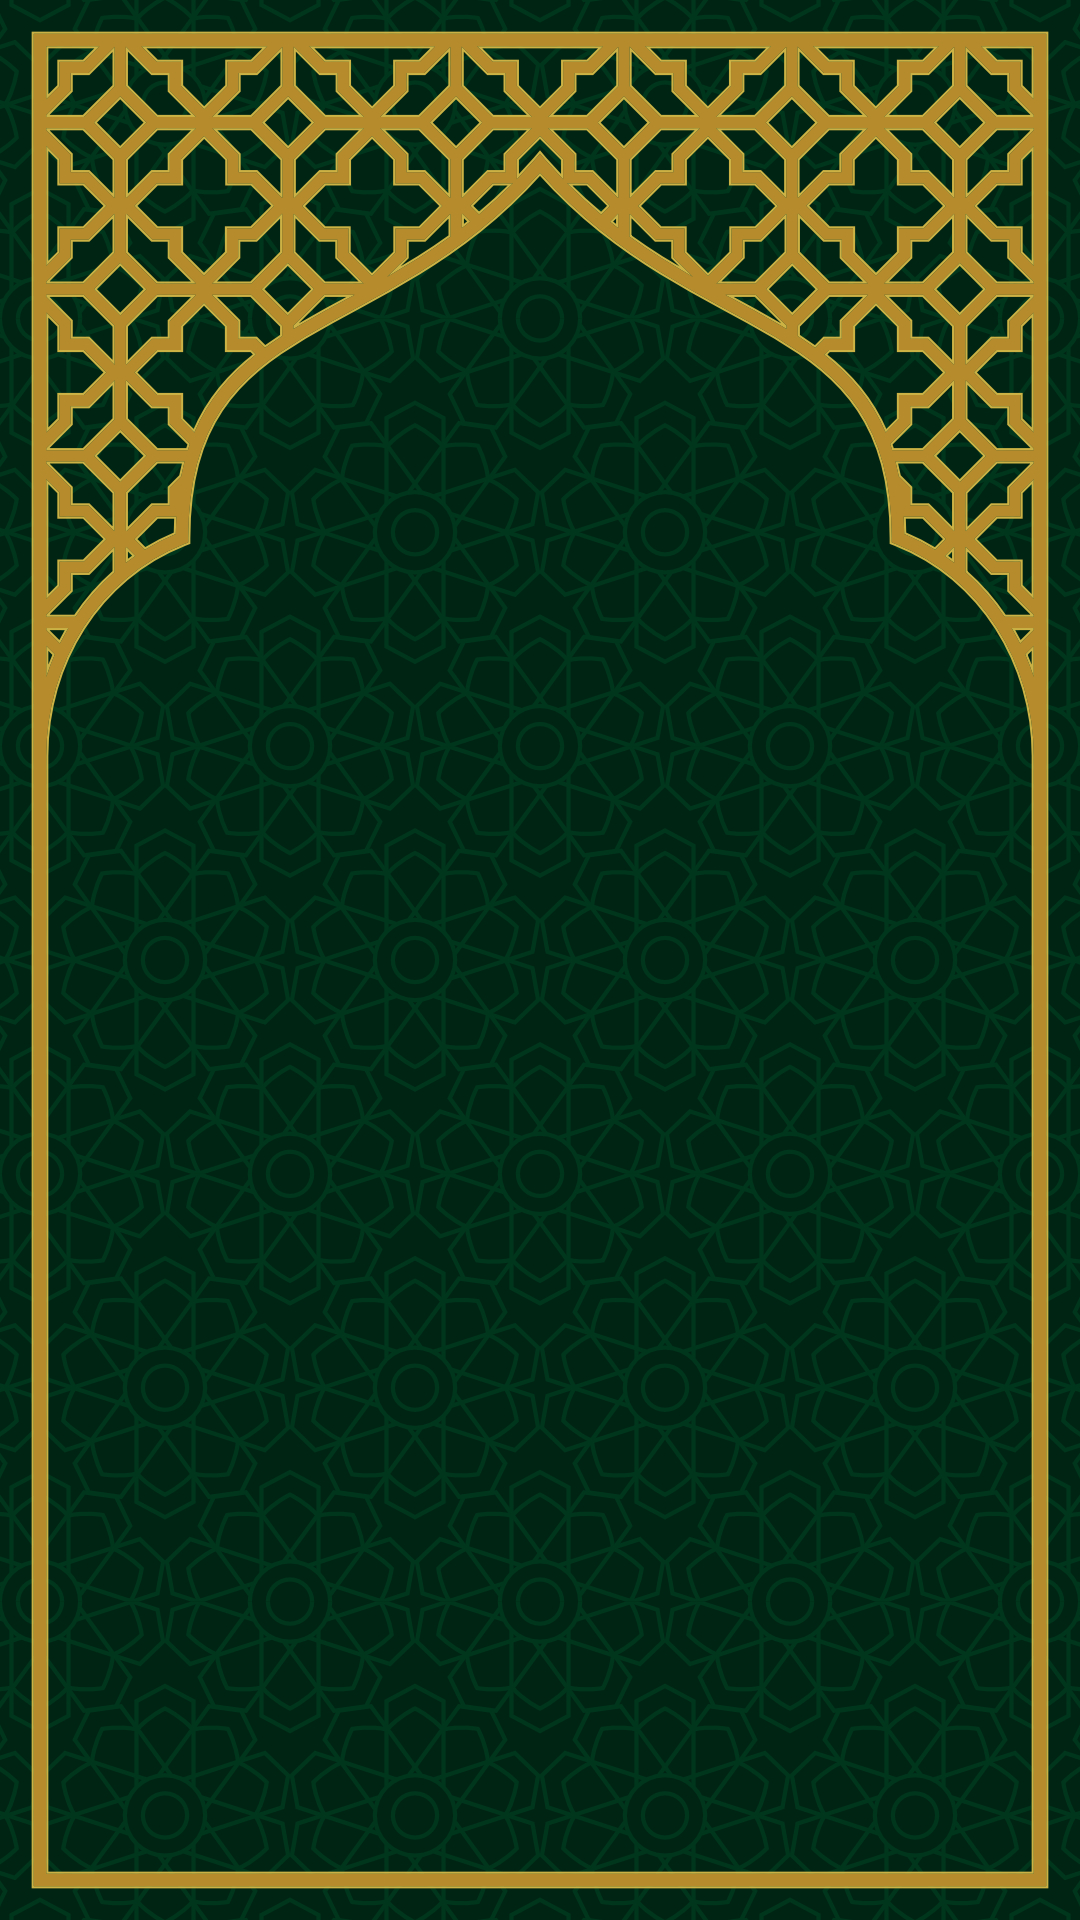
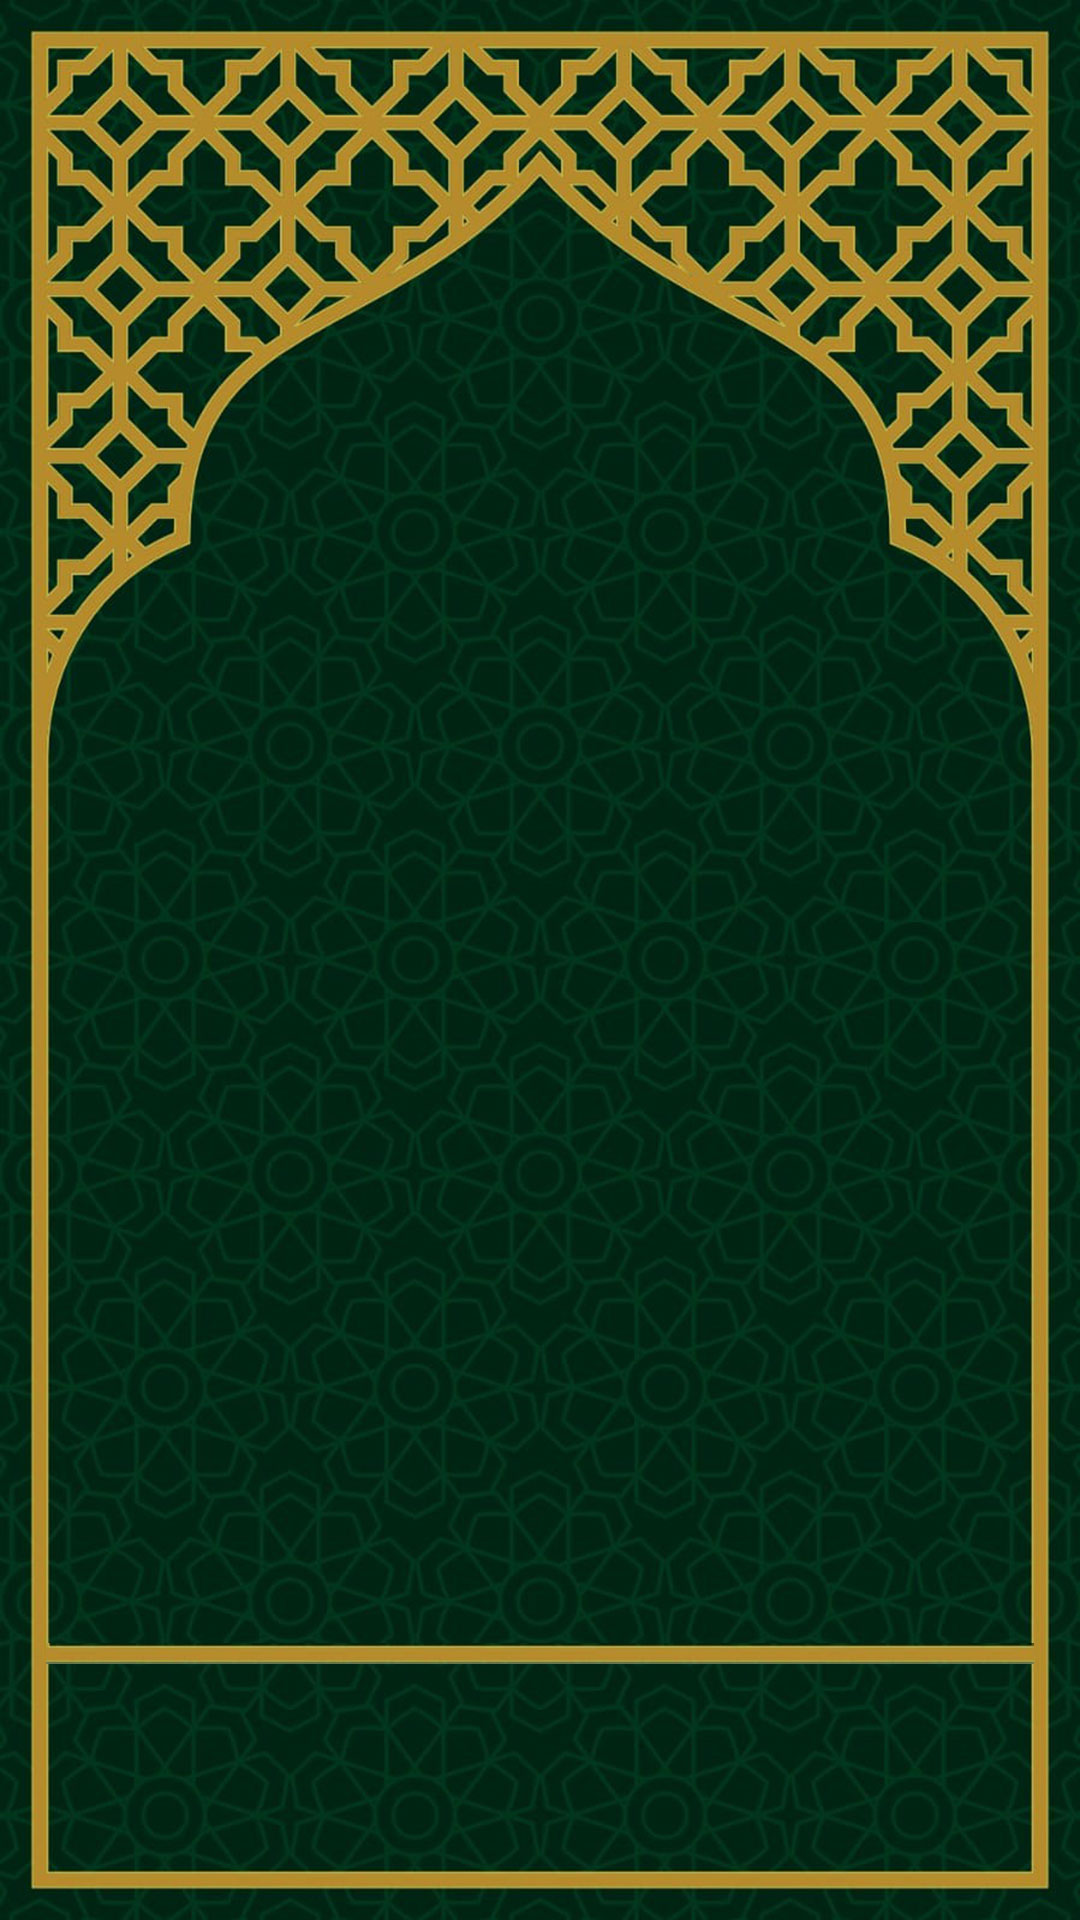
update

diff --git a/index.html b/index.html
@@ -10,7 +10,7 @@
   <div class="container">
 
     <div class="top">
-      <div class="clock" id="current-time">12:00</div>
+      <div class="clock" id="current-time">00:00</div>
       <div class="date" id="current-date">Monday 1st January</div>
       <div class="date" id="arabic-date">Muharram 1, 1447</div>
     </div>
@@ -25,38 +25,52 @@
       </div>
       <div class="prayer-row">
         <div class="prayer-name">FAJR</div>
-        <div class="prayer-time" id="fajr-start">12:00</div>
-        <div class="jamat-time" id="fajr-jamat">12:00</div>
+        <div class="prayer-time" id="fajr-start">00:00</div>
+        <div class="jamat-time" id="fajr-jamat">00:00</div>
       </div>
       <div class="prayer-row">
         <div class="prayer-name">SUNRISE</div>
-        <div class="prayer-time" id="sunrise-start">12:00</div>
+        <div class="prayer-time" id="sunrise-start">00:00</div>
         <div class="jamat-time">-</div>
       </div>
       <div class="prayer-row">
         <div class="prayer-name" id="dhuhr-label">DHUHR</div>
-        <div class="prayer-time" id="dhuhr-start">12:00</div>
-        <div class="jamat-time" id="dhuhr-jamat">12:00</div>
+        <div class="prayer-time" id="dhuhr-start">00:00</div>
+        <div class="jamat-time" id="dhuhr-jamat">00:00</div>
       </div>
       <div class="prayer-row">
         <div class="prayer-name">ASR</div>
-        <div class="prayer-time" id="asr-start">12:00</div>
-        <div class="jamat-time" id="asr-jamat">12:00</div>
+        <div class="prayer-time" id="asr-start">00:00</div>
+        <div class="jamat-time" id="asr-jamat">00:00</div>
       </div>
       <div class="prayer-row">
         <div class="prayer-name">MAGHRIB</div>
-        <div class="prayer-time" id="maghrib-start">12:00</div>
-        <div class="jamat-time" id="maghrib-jamat">12:00</div>
+        <div class="prayer-time" id="maghrib-start">00:00</div>
+        <div class="jamat-time" id="maghrib-jamat">00:00</div>
       </div>
       <div class="prayer-row">
         <div class="prayer-name">ISHA</div>
-        <div class="prayer-time" id="isha-start">12:00</div>
-        <div class="jamat-time" id="isha-jamat">12:00</div>
+        <div class="prayer-time" id="isha-start">00:00</div>
+        <div class="jamat-time" id="isha-jamat">00:00</div>
       </div>
       <div class="prayer-row">
         <div class="prayer-name">JUMUAH</div>
         <div class="prayer-time">-</div>
-        <div class="jamat-time" id="jumuah-jamat">12:00</div>
+        <div class="jamat-time" id="jumuah-jamat">00:00</div>
+      </div>
+    </div>
+
+    <div class="dhikr-section">
+      <div class="dhikr-title">DHIKR MAJLIS</div>
+      <div class="dhikr-columns">
+        <div class="dhikr-col">
+          <div class="dhikr-label">MORNING</div>
+          <div class="dhikr-time" id="dhikr-morning">00:00</div>
+        </div>
+        <div class="dhikr-col">
+          <div class="dhikr-label">EVENING</div>
+          <div class="dhikr-time" id="dhikr-evening">00:00</div>
+        </div>
       </div>
     </div>
 

diff --git a/script.js b/script.js
@@ -192,6 +192,33 @@ function initPrayerTimes() {
     }, 1000);
   }
 
+  let dhikrData = null;
+
+  function getDisplayTime(slot) {
+    if (!dhikrData) return null;
+    const todayVal = dhikrData.today[slot];
+    const tomorrowVal = dhikrData.tomorrow[slot];
+    if (!todayVal) return tomorrowVal || null;
+    const now = new Date();
+    const todayTime = parseToday(todayVal);
+    const fifteens = 15 * 60 * 1000;
+    if (now - todayTime >= fifteens) return tomorrowVal || todayVal;
+    return todayVal;
+  }
+
+  function checkDhikr() {
+    fetch('https://sufi.org.uk/live-dzp', { cache: "no-store" })
+      .then(res => res.json())
+      .then(status => {
+        dhikrData = status;
+        if (!dhikrData) return;
+        document.getElementById("dhikr-morning").textContent = formatTo12Hour(getDisplayTime("morning")) || "00:00";
+        document.getElementById("dhikr-evening").textContent = formatTo12Hour(getDisplayTime("evening")) || "00:00";
+        // document.getElementById("dhikr-night").textContent =  formatTo12Hour(getDisplayTime("night")) || "00:00";
+      })
+      .catch(err => console.error("Dhikr fetch error:", err));
+  }
+
   const MAX_POSTERS = 5;
   let posterImages = [];
   let posterIndex = 0;
@@ -401,6 +428,7 @@ function initPrayerTimes() {
         }
 
         if (status.kalimat !== currentKalimat) {
+          if (status.kalimat == 'blank' && currentKalimat == "Dua") status.kalimat = null
           const kalimatPath = `kalimat/${status.kalimat}.png?t=${Date.now()}`;
           const img = new Image();
           img.onload = () => {
@@ -520,11 +548,13 @@ function initPrayerTimes() {
   fetchPrayerTimes();
   updateClock();
   loadPrayerTimes();
+  checkDhikr();
   preloadAndCheckPosters();
   checkLiveStatusAndToggleOverlay();
   
   setInterval(updateClock, 1000);
   setInterval(loadPrayerTimes, 1000);
+  setInterval(checkDhikr, 60000);
   setInterval(checkMakroohPoster, 1000);
   setInterval(checkFridayDuroodOverlay, 1000);
   setInterval(fetchPrayerTimes, 300000);

diff --git a/style.css b/style.css
@@ -48,7 +48,6 @@ body {
 .prayers {
   display: flex;
   flex-direction: column;
-  gap: 1.5vh;
 }
 
 .prayer-row {
@@ -108,6 +107,44 @@ body {
   100% {
     opacity: 1;
   }
+}
+
+.dhikr-section {
+  position: absolute;
+  left: 50%;
+  bottom: 4vh;
+  transform: translateX(-50%);
+  width: 80vw;
+  display: flex;
+  align-items: center;
+  font-weight: bold;
+}
+
+.dhikr-title {
+  flex: 1.2;
+  font-size: 3vh;
+  text-align: left;
+  color:#d4af37;
+}
+
+.dhikr-columns {
+  flex: 2;
+  display: flex;
+}
+
+.dhikr-col {
+  flex: 1;
+  text-align: center;
+}
+
+.dhikr-label {
+  font-size: 2.3vh;
+  color: #d4af37;
+  margin-bottom: 1vh;
+}
+
+.dhikr-time {
+  font-size: 3.3vh;
 }
 
 #makrooh-overlay {
